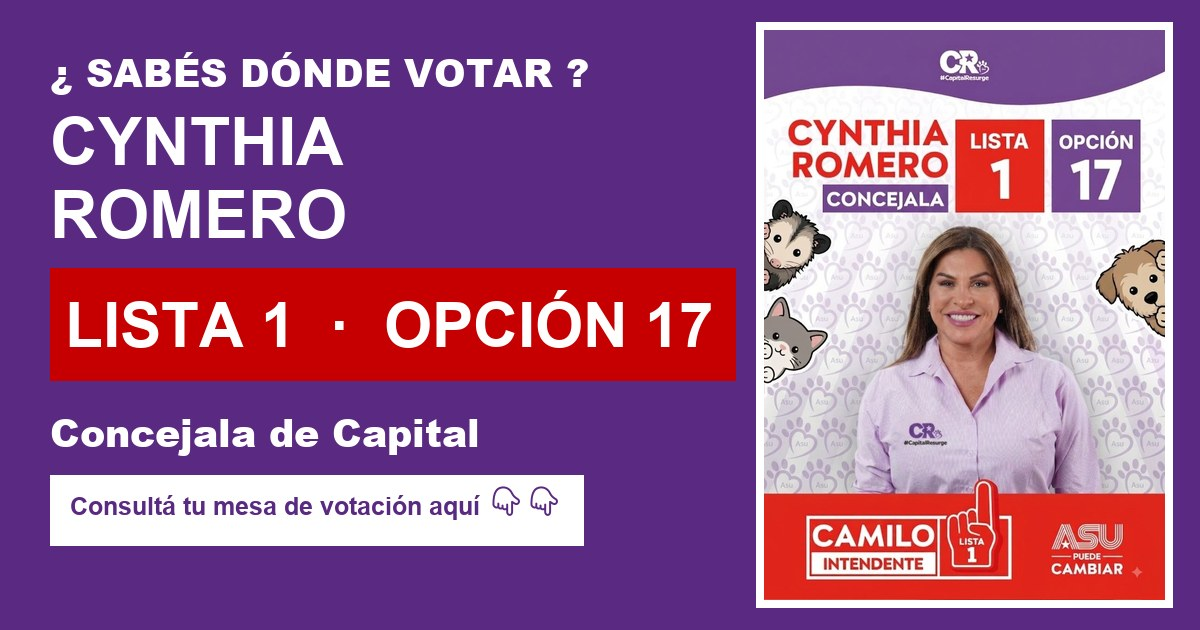
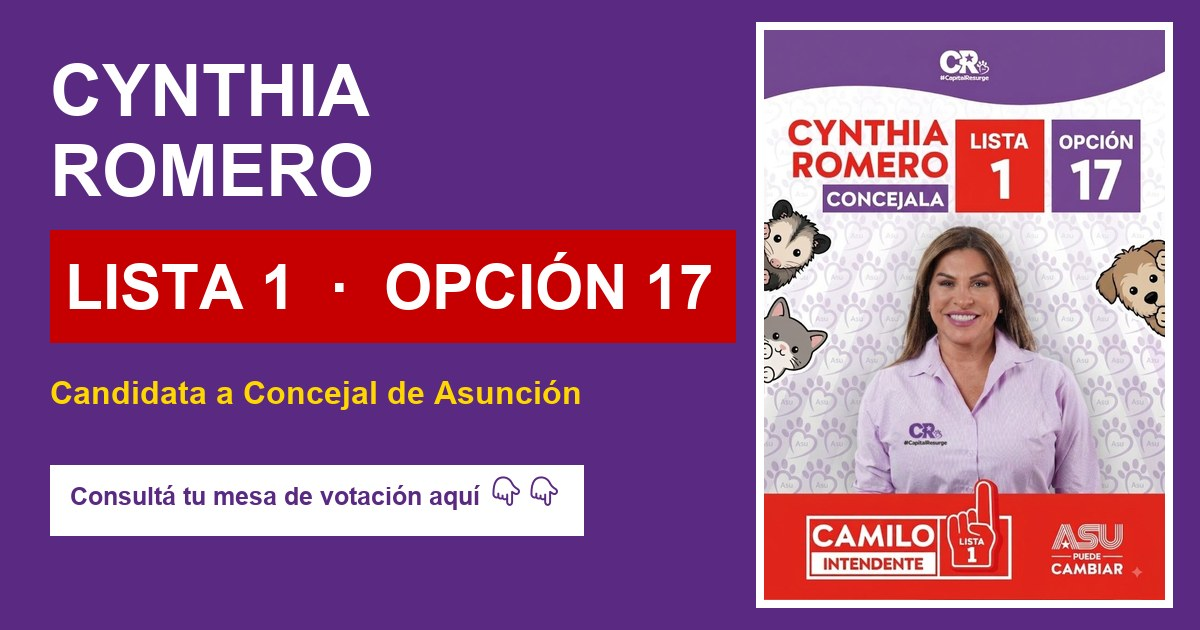
fix: optimizar imagen cynthia.jpg (153kb) y meta tags para previsualizacion whatsapp

Changed region(s): [[0.0308, 0.0905, 0.6167, 0.8746]]

diff --git a/index.html b/index.html
@@ -6,9 +6,9 @@
   <title>¿Sabés dónde votar? — Cynthia Romero</title>
   <meta property="og:site_name"   content="Padrón Electoral" />
   <meta property="og:title"       content="¿Sabés dónde votar?" />
-  <meta property="og:description" content="👇👇 Ingresá tu cédula y encontrá tu mesa al instante · Cynthia Romero Lista 1 Opción 17" />
-  <meta property="og:image"       content="https://dondevoto.netlify.app/og_share.jpg?v=11" />
-  <meta property="og:image:secure_url" content="https://dondevoto.netlify.app/og_share.jpg?v=11" />
+  <meta property="og:description" content="👇👇 Ingresá tu cédula y encontrá tu mesa al instante · Cynthia Romero Lista 1 Opción 17 · Candidata a Concejal de Asunción" />
+  <meta property="og:image"       content="https://dondevoto.netlify.app/og_share.jpg?v=12" />
+  <meta property="og:image:secure_url" content="https://dondevoto.netlify.app/og_share.jpg?v=12" />
   <meta property="og:image:type"   content="image/jpeg" />
   <meta property="og:image:width"  content="1200" />
   <meta property="og:image:height" content="630" />
@@ -16,8 +16,8 @@
   <meta property="og:type"        content="website" />
   <meta name="twitter:card"        content="summary_large_image" />
   <meta name="twitter:title"       content="¿Sabés dónde votar?" />
-  <meta name="twitter:description" content="👇👇 Ingresá tu cédula y encontrá tu mesa al instante · Cynthia Romero Lista 1 Opción 17" />
-  <meta name="twitter:image"       content="https://dondevoto.netlify.app/og_share.jpg?v=11" />
+  <meta name="twitter:description" content="👇👇 Ingresá tu cédula y encontrá tu mesa al instante · Cynthia Romero Lista 1 Opción 17 · Candidata a Concejal de Asunción" />
+  <meta name="twitter:image"       content="https://dondevoto.netlify.app/og_share.jpg?v=12" />
   <link href="https://fonts.googleapis.com/css2?family=Montserrat:wght@400;600;700;900&display=swap" rel="stylesheet" />
   <style>
     :root {
@@ -406,7 +406,7 @@
       <img src="cynthia.jpg" alt="Cynthia Romero — Concejala Lista 1 Opción 17" />
       <div class="candidata-info">
         <div class="nombre-cand">Cynthia Romero</div>
-        <div class="cargo">Candidata a Concejala · Capital</div>
+        <div class="cargo">Candidata a Concejal de Asunción</div>
         <div class="lista-badge">Lista 1 · Opción 17</div>
         <div class="partido">#CapitalResurge</div>
       </div>
